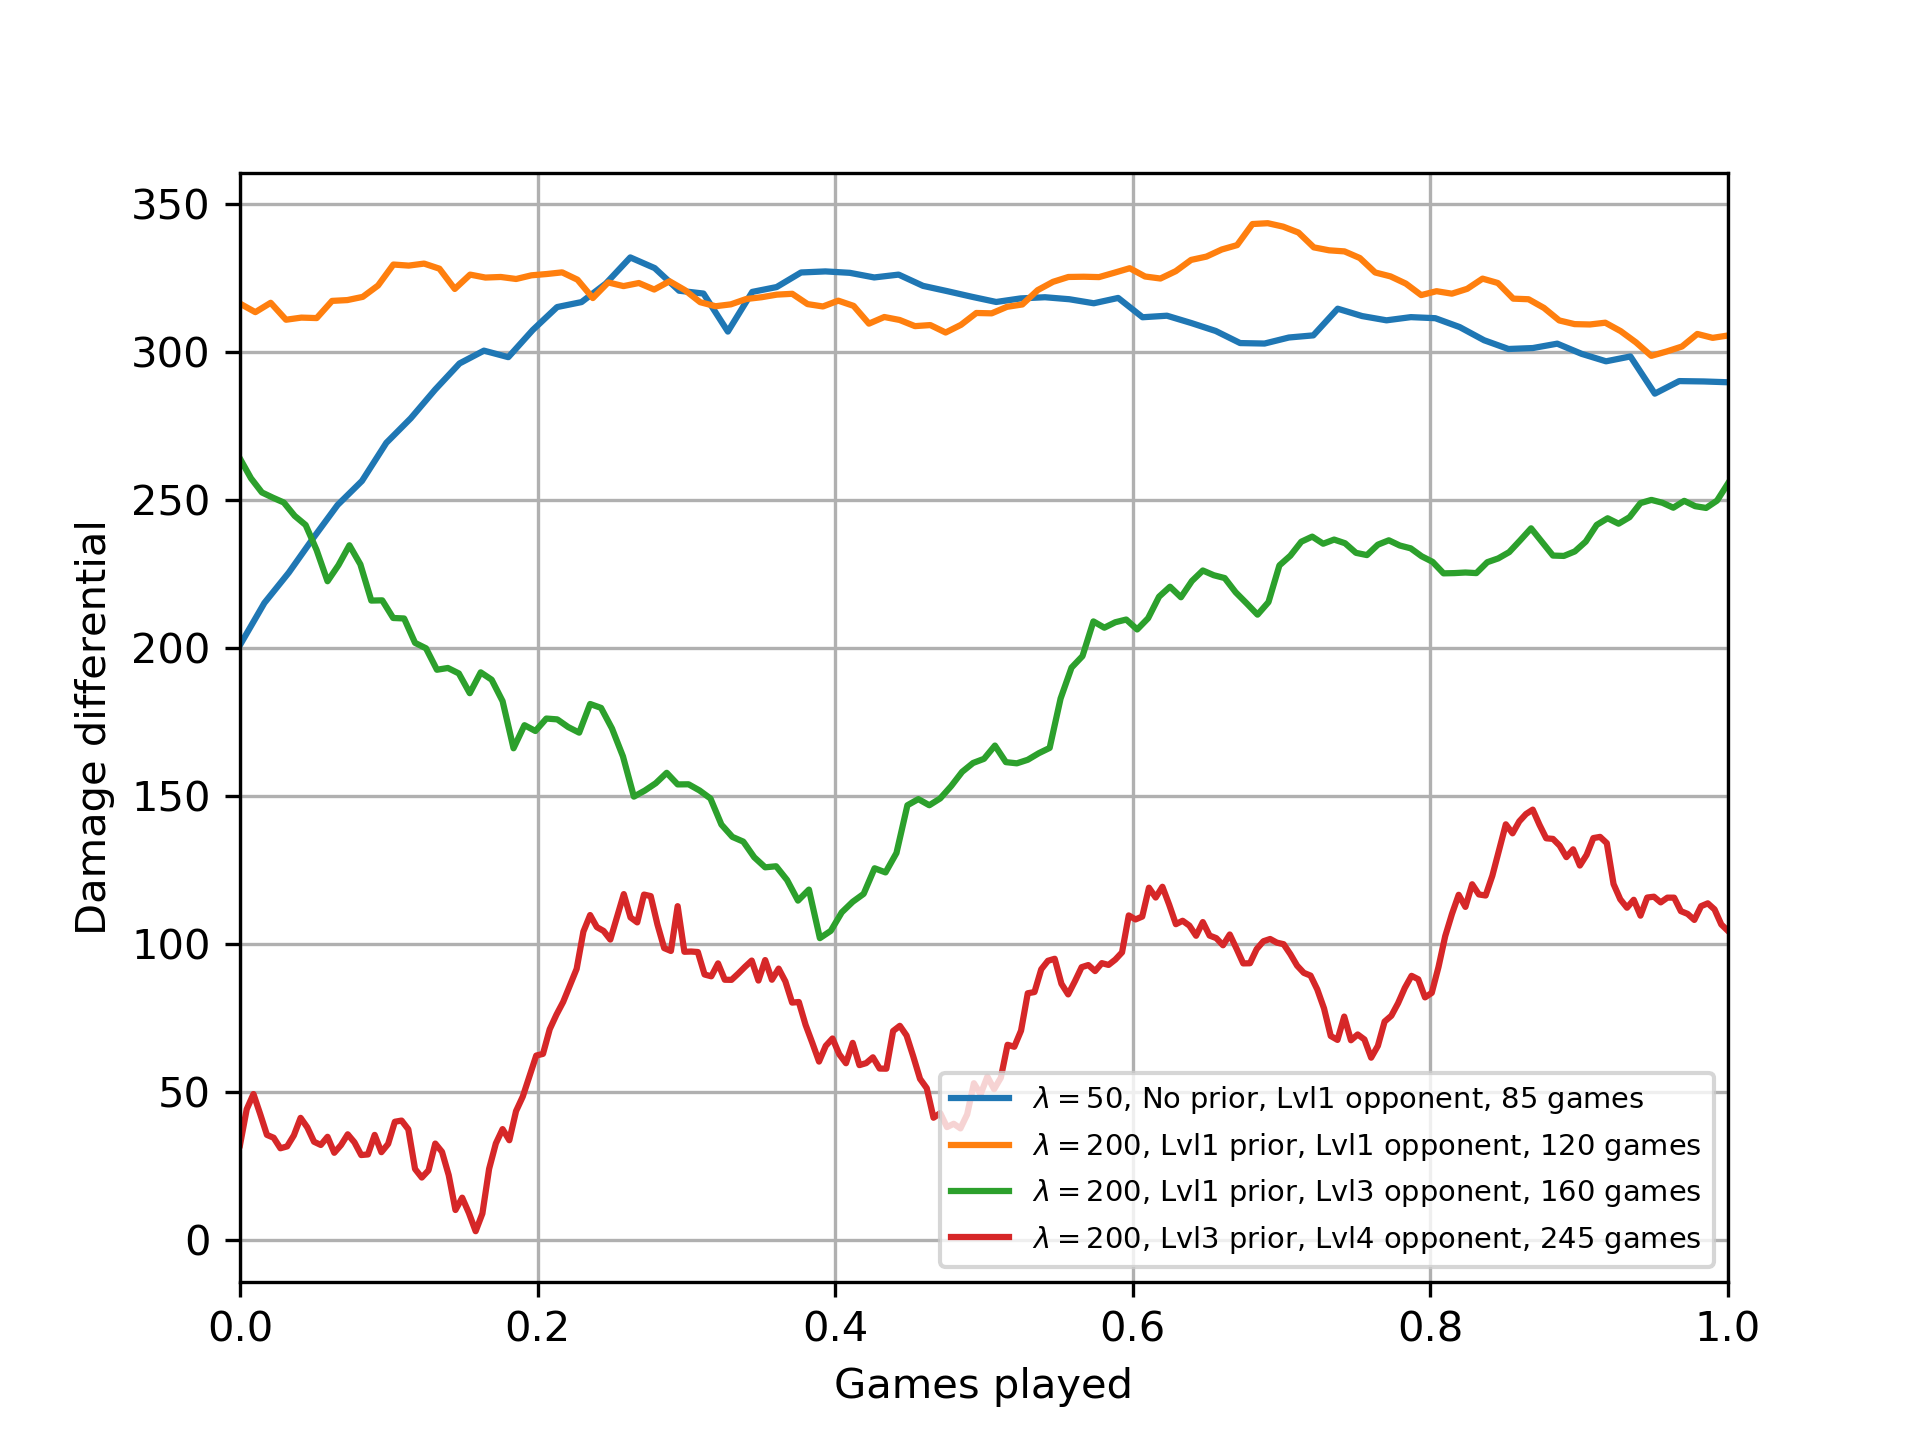
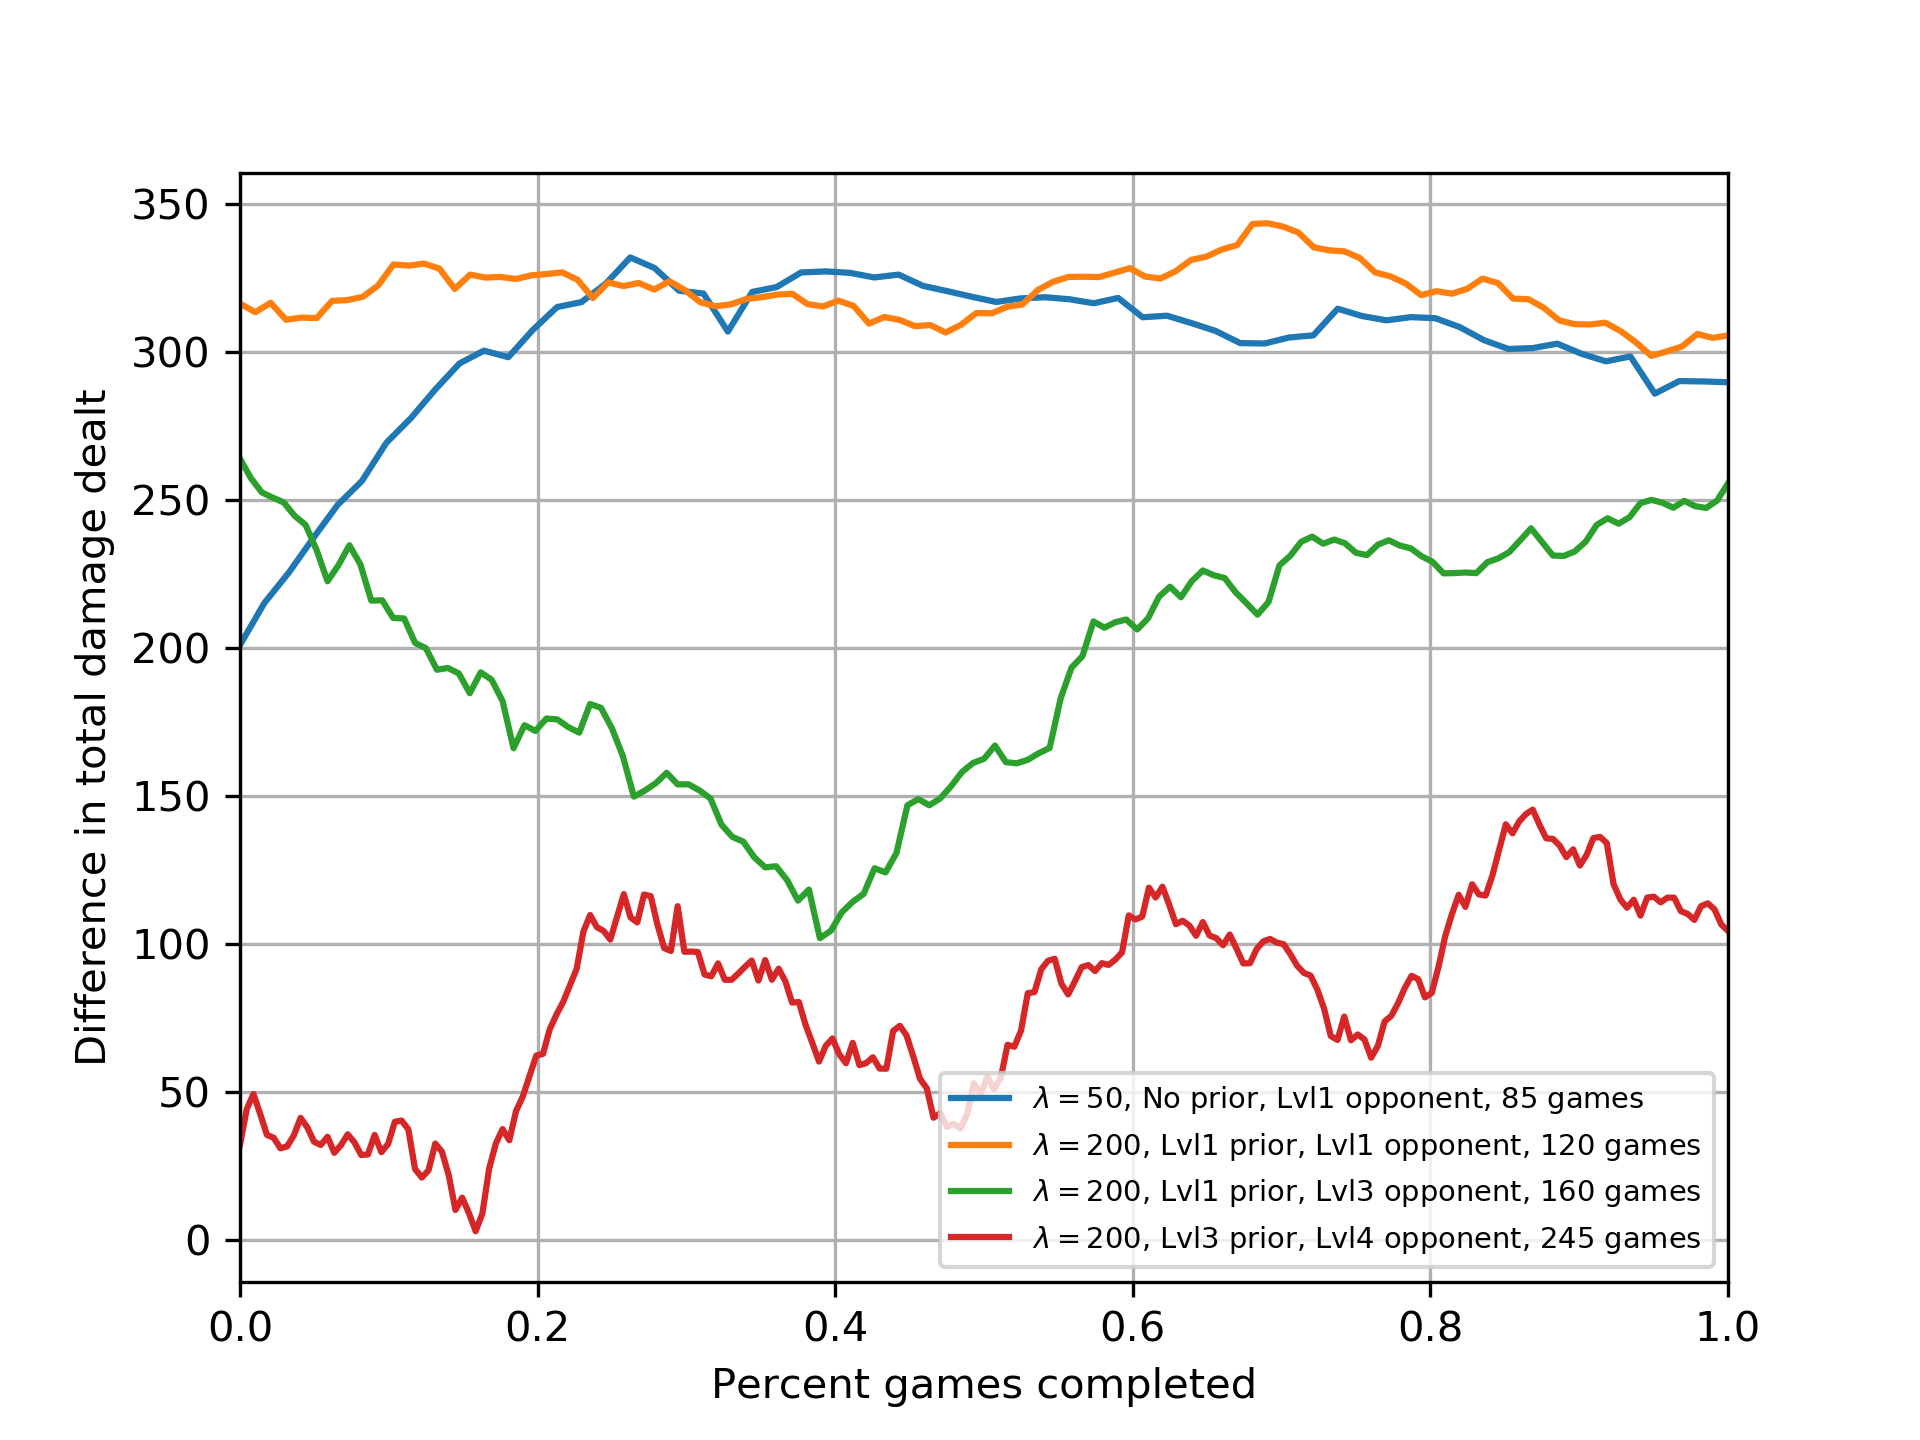
main.tex

Changed region(s): [[0.0312, 0.2812, 0.0625, 0.75], [0.375, 0.9375, 0.6562, 0.9688]]

diff --git a/FinalReport/main.tex b/FinalReport/main.tex
@@ -74,19 +74,19 @@ Reinforcement learning (RL) is able to produce effective policies in environment
 \begin{figure}[!htb]
 \centering
 	\includegraphics[width=120mm]{winpctg.png}
-	\caption{N game running average of difference in stocks at end of game. \label{winpctg}}
+	\caption{25 game moving average of winning percentage. \label{winpctg}}
 \end{figure}
 
 \begin{figure}[!htb]
 \centering
 	\includegraphics[width=120mm]{stocks.png}
-	\caption{N game running average of difference in stocks at end of game. \label{stocks}}
+	\caption{25 game moving average of stock differential at end of game (higher is better).\label{stocks}}
 \end{figure}
 
 \begin{figure}[!htb]
 \centering
 	\includegraphics[width=120mm]{damage.png}
-	\caption{N game running average of difference in damage dealt and taken. \label{damage}}
+	\caption{25 game moving average of difference in total damage dealt in each game (higher is better). \label{damage}}
 \end{figure}
 
 

diff --git a/plotting_for_report.py b/plotting_for_report.py
@@ -165,17 +165,17 @@ def main():
 		# ax3.plot(gameArray, cumDiffStocks[N-1:], label = logLabels[indL])
 
 		
-	ax1.set(xlabel = 'Games played', ylabel = 'Win percentage', xlim =(0,1), ylim = (0,1.05) )
+	ax1.set(xlabel = 'Percent games completed', ylabel = 'Win percentage', xlim =(0,1), ylim = (0,1.05) )
 	ax1.legend(fontsize ='x-small')
 	ax1.grid()
 	fig1.savefig("winpctg.png", dpi = 300)
 
-	ax2.set(xlabel = 'Games played', ylabel = 'Damage differential', xlim =(0,1))
+	ax2.set(xlabel = 'Percent games completed', ylabel = 'Difference in total damage dealt', xlim =(0,1))
 	ax2.legend(fontsize ='x-small')
 	ax2.grid()
 	fig2.savefig("damage.png", dpi = 300)
 
-	ax3.set(xlabel = 'Games Played', ylabel = 'Stock differential', xlim =(0,1))
+	ax3.set(xlabel = 'Percent games completed', ylabel = 'Stock difference at end of game', xlim =(0,1))
 	ax3.legend(fontsize ='x-small')
 	ax3.grid()
 	fig3.savefig("stocks.png", dpi = 300)
